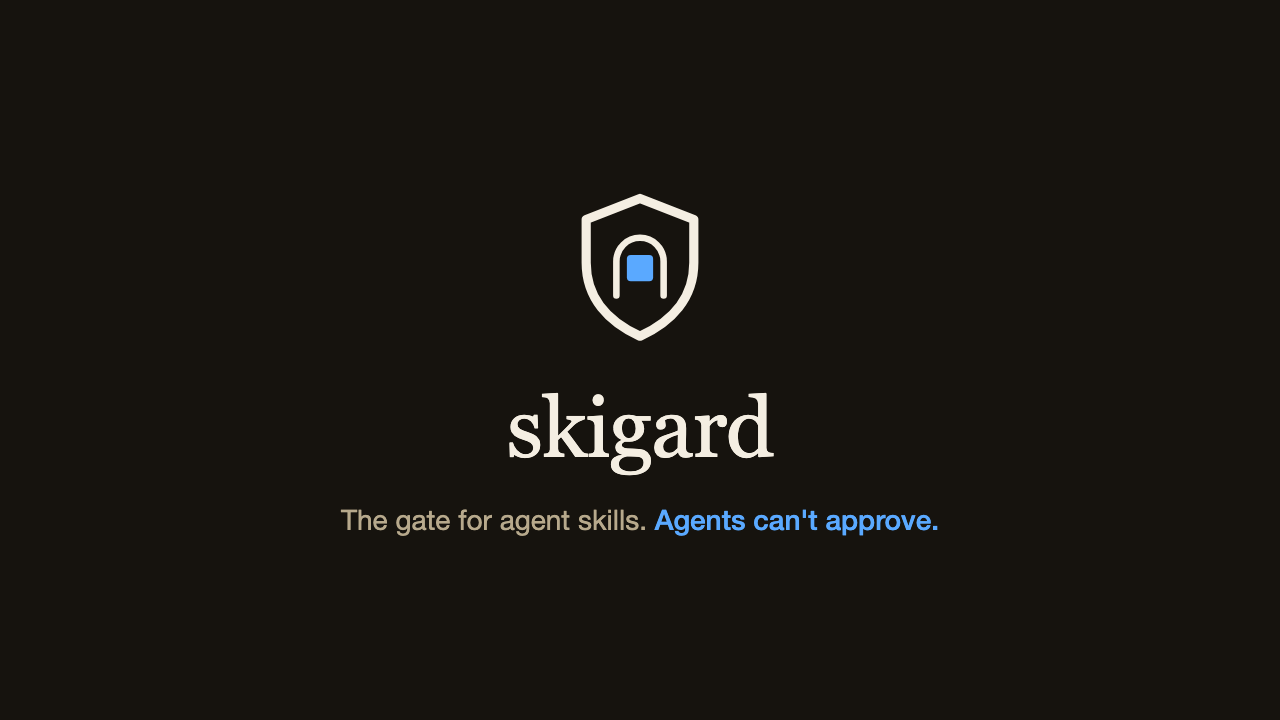
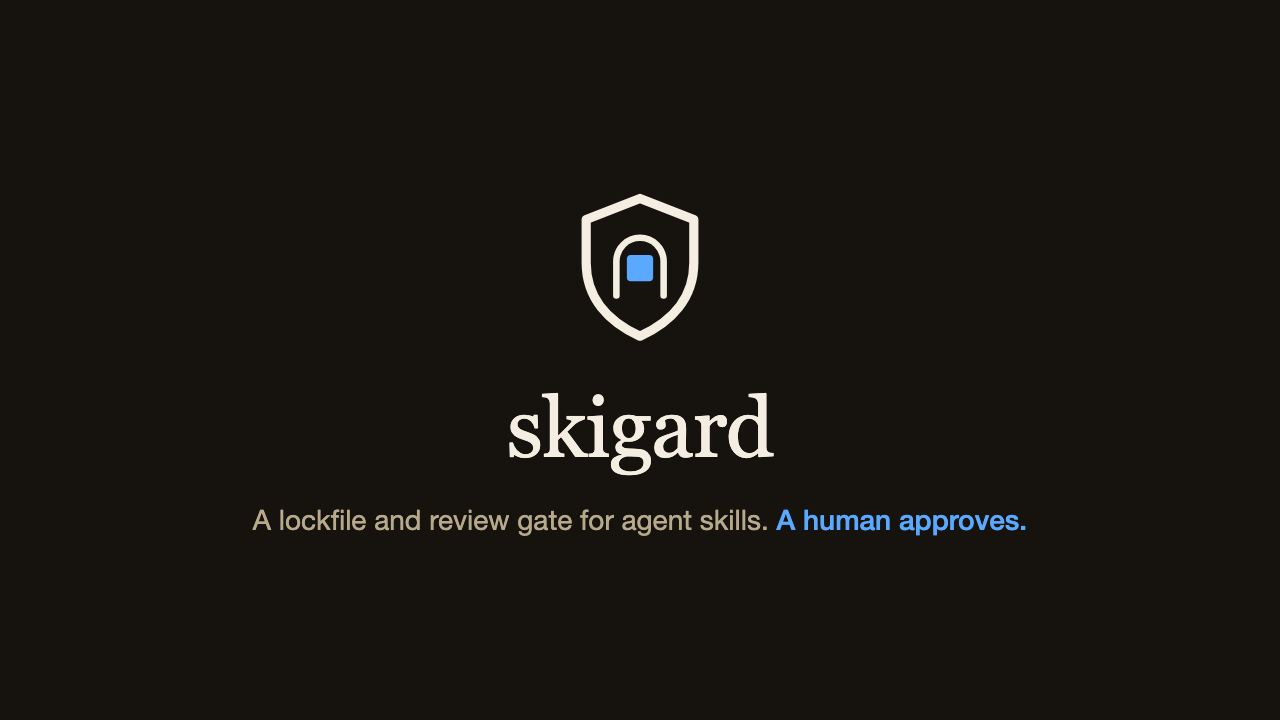
site: real terminal session, harness count from registry, honest wording, green link check (#40)
Site P1 follow-ups.

- Harness count (78) derived from registry.toml at build time: hero
meta, FAQ, JSON-LD, llms.txt.
- Landing terminal is real output of the current binary
(examples/hello-skill, local path, approve through a pty), captured by
website/scripts/capture-session.mjs into src/data/session.json. Caption:
Real output from skigard v<latest release>+<commit>, trimmed. CI runs
`npm run capture -- --check`.
- FAQ: git wording matches threat model (init --git), no analytics claim
contradicting /privacy. Video poster no longer says 'Agents can't
approve' (assets/demo/poster.html + regenerated poster.png).
- scripts/check-links.py skips site-absolute /skigard/ links in guides
(website check:links verifies them on the built site); mise run links
green.
- npx tab already removed in #37; stays out until npm view skigard
works.

---------

Changed region(s): [[0.1875, 0.7028, 0.8125, 0.7639]]

diff --git a/website/src/lib/seo.ts b/website/src/lib/seo.ts
@@ -1,3 +1,7 @@
+import harnesses from "../data/harnesses.json"; // generated from internal/harness/registry.toml by scripts/sync-docs.mjs
+
+export const harnessCount = harnesses.length;
+
 export function breadcrumbs(items: [string, string][]) {
   return {
     "@context": "https://schema.org",
@@ -24,10 +28,10 @@ export const software = {
 
 export const faq: { q: string; a: string }[] = [
   { q: "Can an agent approve a skill?", a: "Not through any flag or pipe. Approval needs a human at a terminal: approve reads the controlling terminal (/dev/tty on Unix, the console on Windows), has no --yes flag, no stdin or environment path, and refuses inside the agent harnesses it can detect. A process that creates its own pseudo-terminal can still type the answer, so the gate stops accidents and ordinary prompt injection, not a determined agent. Signed approvals are planned. See the threat model for the limits." },
-  { q: "Does skigard run anything from a skill?", a: "No. It never executes skill content and never invokes git. Skills are fetched, copied with hostile-input handling, hashed and scanned as data." },
-  { q: "Does skigard send telemetry?", a: "No. The binary has no telemetry and one runtime dependency, a TOML parser. This website uses privacy-friendly analytics only when enabled." },
+  { q: "Does skigard run anything from a skill?", a: "No. It never executes skill content and never invokes git on skill content (GitHub sources are downloaded as archives; the only git call is `init --git`, which runs git init in your own home). Skills are fetched, copied with hostile-input handling, hashed and scanned as data." },
+  { q: "Does skigard send telemetry?", a: "No. The binary has no telemetry and one runtime dependency, a TOML parser. This website runs no analytics today." },
   { q: "Is a passing scan a safety certificate?", a: "No. The scanner is heuristic and an agent review can be fooled. The review can only raise concern, never lower a scanner finding. Read the skill, especially bundled scripts." },
-  { q: "Which agents does it support?", a: "About 75 agent harnesses are detected, including Claude Code, Pi, Codex, Cursor, Gemini CLI and OpenCode. Entries marked verified were checked against the harness itself; others need --include-unverified." },
+  { q: "Which agents does it support?", a: `${harnessCount} agent harnesses are in the registry, including Claude Code, Pi, Codex, Cursor, Gemini CLI and OpenCode. Entries marked verified were checked against the harness itself; others need --include-unverified.` },
   { q: "What does the lockfile pin?", a: "skigard.lock records the source, commit, a versioned content hash of the approved bytes, the scan result, the review and the approver. skigard verify fails when the store, the installs or the generated marketplace drift." },
   { q: "Does it work on Windows?", a: "Yes, including approve, which reads the console. Automated agent review is disabled on Windows; use review --manual." },
   { q: "What is the licence?", a: "MIT. skigard is a project by Ambier Oy, Finland." },

diff --git a/website/src/lib/version.ts b/website/src/lib/version.ts
@@ -1,0 +1,13 @@
+import { readFileSync } from "node:fs";
+import { resolve } from "node:path";
+
+// Latest released version, read from CHANGELOG.md at build time so the site cannot go stale.
+const FALLBACK_VERSION = "0.1.1";
+export function latestVersion(): string {
+  try {
+    const log = readFileSync(resolve(process.cwd(), "../CHANGELOG.md"), "utf8");
+    return log.match(/^## \[(\d+\.\d+\.\d+)\]/m)?.[1] ?? FALLBACK_VERSION;
+  } catch {
+    return FALLBACK_VERSION;
+  }
+}

diff --git a/assets/demo/poster.html b/assets/demo/poster.html
@@ -11,4 +11,4 @@
 </style>
 <img src="mark.svg" alt="">
 <h1>skigard</h1>
-<p>The gate for agent skills. <b>Agents can't approve.</b></p>
+<p>A lockfile and review gate for agent skills. <b>A human approves.</b></p>

diff --git a/scripts/check-links.py b/scripts/check-links.py
@@ -51,6 +51,8 @@ def main():
         for target in LINK.findall(text) + HTML.findall(text):
             if re.match(r"^(https?:|mailto:|data:)", target):
                 continue
+            if target.startswith("/skigard/"):
+                continue  # site-absolute URL (website/src/content/docs/guides); website `npm run check:links` verifies them on the built site
             ref, _, frag = target.partition("#")
             dest = path if ref == "" else os.path.normpath(os.path.join(os.path.dirname(path), ref))
             rel = os.path.relpath(path, ROOT)
